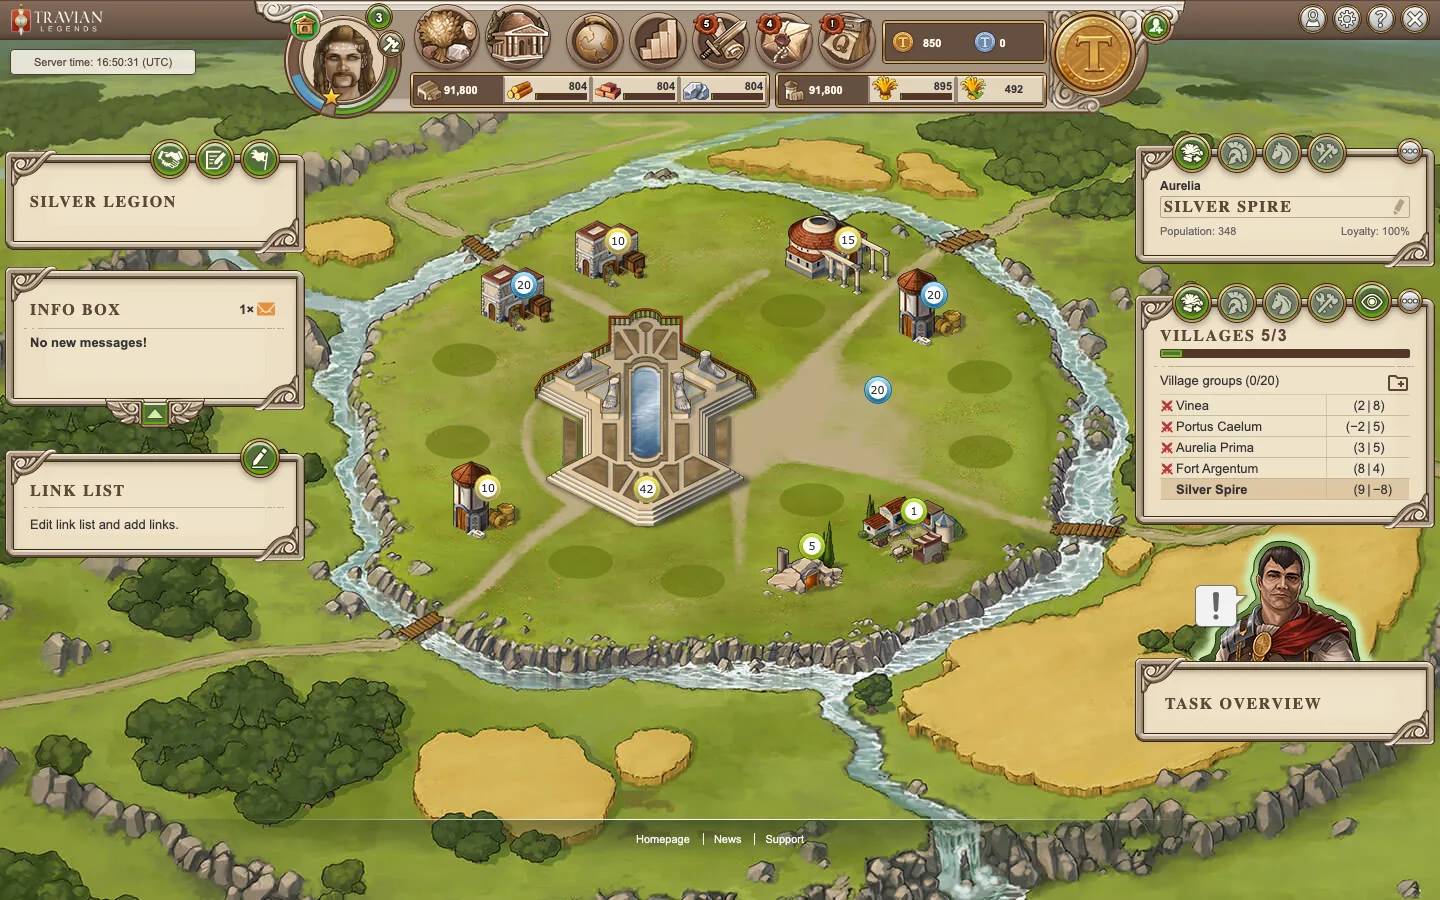
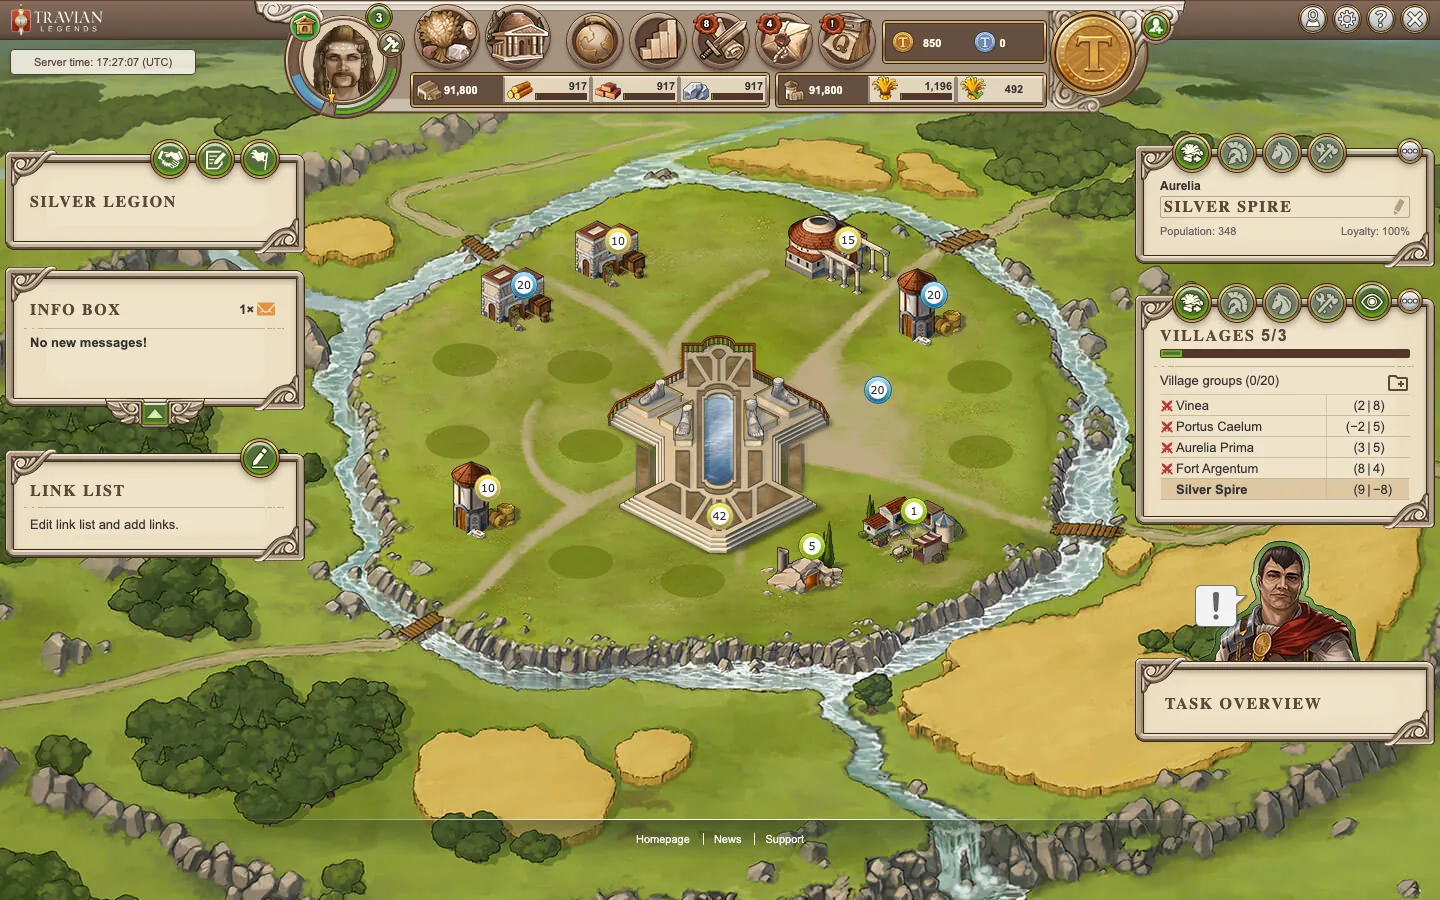
Stand the Wonder on its own slots and keep the Main Building slot
A Wonder village keeps 14 building slots besides the Main Building, the Rally
Point and the wall. The Gpack draws the Wonder in a 299x440 box on slot 35,
which covers slots 21, 29, 31, 32 and 35. The village had instead reserved
21, 26, 30, 31 and 32 and drawn the Wonder from slot 26 with its own box.

- WonderOfTheWorldModel::RESERVED_SLOTS = [21, 29, 31, 32, 35] and
  DISPLAY_SLOT = 35. The village centre, build page, construction queue and
  the automatic builder share the list. Two copies of the old list also had a
  typo (31 twice, 30 missing).
- The village centre draws the Wonder from slot 35, so the Gpack's own
  .buildingSlot.a35.g40 geometry applies in both directions, and the
  overrides.css box is removed. Slots 26 and 30 become buildable.
- Contract test pins the slots, the display slot and the Gpack box.
- The website's Wonder screenshot shows the new placement.

diff --git a/assets/gpack/travian/mainPage/lang/overrides.css b/assets/gpack/travian/mainPage/lang/overrides.css
@@ -6144,12 +6144,3 @@ body.rtl.rearrangeBuildings .rearrangeBuildings .container button.confirm {
 
 /* Keyboard focus on the home news card: its link is a 0x0 stretched link without chrome, so ring the card (same ring as the other public controls). */
 .publicHomepage .homepageNewsCard .newsPreview:has(.linkToFullArticle a:focus-visible) { box-shadow: 2px 2px 6px 0 #0000004d, 0 0 2px 3px rgb(0 102 255 / 70%); }
-
-/* Wonder of the World: the village keeps slots 21, 26, 30, 31 and 32 free for it and draws it from slot 26. Give
- * that slot the 299x440 sprite box and stand the Wonder over the free slots (both directions via inset-inline-start). */
-#contentOuterContainer .village2 #villageContent .buildingSlot.a26.g40 {
-  width: 299px;
-  height: 440px;
-  top: 120px;
-  inset-inline-start: 428px;
-}

diff --git a/game/include/Controller/BuildCtrl.php b/game/include/Controller/BuildCtrl.php
@@ -27,6 +27,7 @@ use Game\ExtraModules;
 use Game\Formulas;
 use Game\GoldHelper;
 use Model\ArtefactsModel;
+use Model\WonderOfTheWorldModel;
 use resources\View\GameView;
 use resources\View\PHPBatchView;
 use Game\Buildings\BuildingAction;
@@ -58,7 +59,7 @@ class BuildCtrl extends GameCtrl
             // authoritative, while gid-only legacy links still resolve.
             $this->selectedBuildingIndex = $village->findBuildingByGid((int)$_REQUEST['gid']);
         }
-        if ($village->isWW() && in_array($this->selectedBuildingIndex, [21, 26, 30, 31, 32,])) {
+        if ($village->isWW() && in_array($this->selectedBuildingIndex, WonderOfTheWorldModel::RESERVED_SLOTS)) {
             $this->selectedBuildingIndex = 99;
         }
         if ($this->selectedBuildingIndex <= 0) {
@@ -141,7 +142,7 @@ class BuildCtrl extends GameCtrl
         if ($this->selectedBuildingIndex == 39 || $this->selectedBuildingIndex == 40) {
             $category = 2;
             $noSoon = true;
-        } elseif (in_array($this->selectedBuildingIndex, [21, 26, 31, 31, 32, 99,]) && $village->isWW()) {
+        } elseif (in_array($this->selectedBuildingIndex, [...WonderOfTheWorldModel::RESERVED_SLOTS, 99]) && $village->isWW()) {
             $category = 1;
             $noSoon = true;
         }
@@ -162,7 +163,7 @@ class BuildCtrl extends GameCtrl
         $view->vars = ["selectedId" => $this->selectedBuildingIndex, "activeTab" => $category, "InfrastructureTab" => ["id" => get_button_id(), "text" => T("Buildings", "newBuilding.Infrastructure"),], "MilitaryTab" => ["id" => get_button_id(), "text" => T("Buildings", "newBuilding.Military"),], "ResourcesTab" => ["id" => get_button_id(), "text" => T("Buildings", "newBuilding.Resources"),],];
         $content = $view->output();
         foreach ($newBuilds['available'] as $item_id => $build) {
-            if ($village->isWW() && $item_id <> 40 && in_array($this->selectedBuildingIndex, [21, 26, 30, 31, 32, 99,])) {
+            if ($village->isWW() && $item_id <> 40 && in_array($this->selectedBuildingIndex, [...WonderOfTheWorldModel::RESERVED_SLOTS, 99])) {
                 continue;
             } elseif ($this->selectedBuildingIndex == 39 && $item_id <> 16) {
                 continue;
@@ -176,7 +177,7 @@ class BuildCtrl extends GameCtrl
             $content .= T("Buildings", "no_building_available");
             $content .= "</div>";
         }
-        if (!$noSoon && !in_array($this->selectedBuildingIndex, [39, 40,]) && !($village->isWW() && in_array($this->selectedBuildingIndex, [21, 26, 31, 31, 32, 99,]))) {
+        if (!$noSoon && !in_array($this->selectedBuildingIndex, [39, 40,]) && !($village->isWW() && in_array($this->selectedBuildingIndex, [...WonderOfTheWorldModel::RESERVED_SLOTS, 99]))) {
             $x = sizeof($newBuilds['soon']);
             if ($x) {
                 $content .= '<h4 class="round spacer">' . T("Buildings", "soon_available") . '</h4>';

diff --git a/tests/contracts/test-wonder-art-contract.php b/tests/contracts/test-wonder-art-contract.php
@@ -38,9 +38,29 @@ foreach (['roman', 'teuton', 'gaul', 'egyptian', 'hun', 'spartan', 'viking'] as 
     }
 }
 
-$overrides = (string) file_get_contents($root . '/assets/gpack/travian/mainPage/lang/overrides.css');
-if (preg_match('/\.buildingSlot\.a26\.g40 \{[^}]*width: 299px;[^}]*height: 440px;[^}]*inset-inline-start:/s', $overrides) !== 1) {
-    $fail('The Wonder slot must get the 299x440 sprite box in both directions.');
+// 14 building slots stay free besides the Main Building, Rally Point and wall: the Wonder stands on the other five
+// and is drawn from slot 35, which the Gpack styles as the 299x440 Wonder box in both directions.
+if (\Model\WonderOfTheWorldModel::RESERVED_SLOTS !== [21, 29, 31, 32, 35] || \Model\WonderOfTheWorldModel::DISPLAY_SLOT !== 35) {
+    $fail('A Wonder village must reserve slots 21, 29, 31, 32 and 35 and draw the Wonder from slot 35.');
+}
+if (in_array(26, \Model\WonderOfTheWorldModel::RESERVED_SLOTS, true)) {
+    $fail('A Wonder village keeps its Main Building slot.');
+}
+foreach (['css_ltr' => 'left', 'css_rtl' => 'right'] as $dir => $side) {
+    $css = (string) file_get_contents($root . "/assets/gpack/travian/mainPage/{$dir}/imports.css");
+    if (preg_match('/\.buildingSlot\.a35\.g40 \{\s*width: 299px;\s*height: 440px;\s*top: 147px;\s*' . $side . ': 501px;/', $css) !== 1) {
+        $fail("The {$dir} Gpack must style the Wonder box on slot 35.");
+    }
+}
+$centre = (string) file_get_contents($root . '/game/include/Controller/VillageCenterCtrl.php');
+if (!str_contains($centre, '$i === WonderOfTheWorldModel::DISPLAY_SLOT')) {
+    $fail('The village centre must draw the Wonder from its display slot.');
+}
+foreach (['Core/Village.php', 'Controller/BuildCtrl.php', 'Game/Buildings/AutoUpgradeAI.php'] as $file) {
+    $source = (string) file_get_contents($root . '/game/include/' . $file);
+    if (!str_contains($source, 'WonderOfTheWorldModel::RESERVED_SLOTS') || preg_match('/\[21, ?26, ?3[01]/', $source) === 1) {
+        $fail("{$file} must use WonderOfTheWorldModel::RESERVED_SLOTS.");
+    }
 }
 
 $map = (string) file_get_contents($root . '/game/include/Controller/MapBlockCtrl.php');

diff --git a/game/include/Controller/VillageCenterCtrl.php b/game/include/Controller/VillageCenterCtrl.php
@@ -36,11 +36,11 @@ class VillageCenterCtrl extends GameCtrl
         $village = $this->session->village;
         $maps = [];
         for ($i = 19; $i <= 40; ++$i) {
-            if ($village->isWW() && in_array($i, [21, /*26,*/ 30, 31, 32])) {
+            if ($village->isWW() && $i !== WonderOfTheWorldModel::DISPLAY_SLOT && in_array($i, WonderOfTheWorldModel::RESERVED_SLOTS, true)) {
                 continue;
             }
             $index = $i;
-            if ($village->isWW() && $i == 26) {
+            if ($village->isWW() && $i === WonderOfTheWorldModel::DISPLAY_SLOT) {
                 $index = 99;
             }
             $title = $village->getFieldTitleAsString($index);

diff --git a/game/include/Model/WonderOfTheWorldModel.php b/game/include/Model/WonderOfTheWorldModel.php
@@ -15,6 +15,15 @@ use const MAP_SIZE;
 
 class WonderOfTheWorldModel
 {
+    /**
+     * Village-centre slots the Wonder stands on. A Wonder village keeps 14 building slots besides the Main Building
+     * (26), the Rally Point and the wall; opening one of these five opens the Wonder (field 99).
+     */
+    public const RESERVED_SLOTS = [21, 29, 31, 32, 35];
+
+    /** The reserved slot the village centre draws the Wonder from (the Gpack styles .buildingSlot.a35.g40). */
+    public const DISPLAY_SLOT = 35;
+
     /** Art stage 0-5 of a Wonder at this level: 0-19, 20-39, 40-59, 60-79, 80-89 and 90 or more. */
     public static function stage(int $level): int
     {

diff --git a/game/include/Game/Buildings/AutoUpgradeAI.php b/game/include/Game/Buildings/AutoUpgradeAI.php
@@ -402,7 +402,7 @@ class AutoUpgradeAI
         } else {
             $rand_field = mt_rand(1, 5) <= 3 ? mt_rand(1, 18) : mt_rand(19, 40);
         }
-        if ($this->isWW && in_array($rand_field, [21, 26, 30, 31, 32])) return false;
+        if ($this->isWW && in_array($rand_field, \Model\WonderOfTheWorldModel::RESERVED_SLOTS)) return false;
         if ($this->buildings[$rand_field]['item_id'] <= 0) {
             return $this->newBuilding($rand_field);
         }

diff --git a/game/include/Core/Village.php b/game/include/Core/Village.php
@@ -1697,7 +1697,7 @@ class Village
         if (Config::getInstance()->dynamic->serverFinished) {
             return false;
         }
-        if ($this->isWW() && in_array($field, [21, 26, 30, 31, 32, 99])) {
+        if ($this->isWW() && in_array($field, [...\Model\WonderOfTheWorldModel::RESERVED_SLOTS, 99])) {
             $field = 99;
         }
         if (!isset($this->buildings[$field])) {
